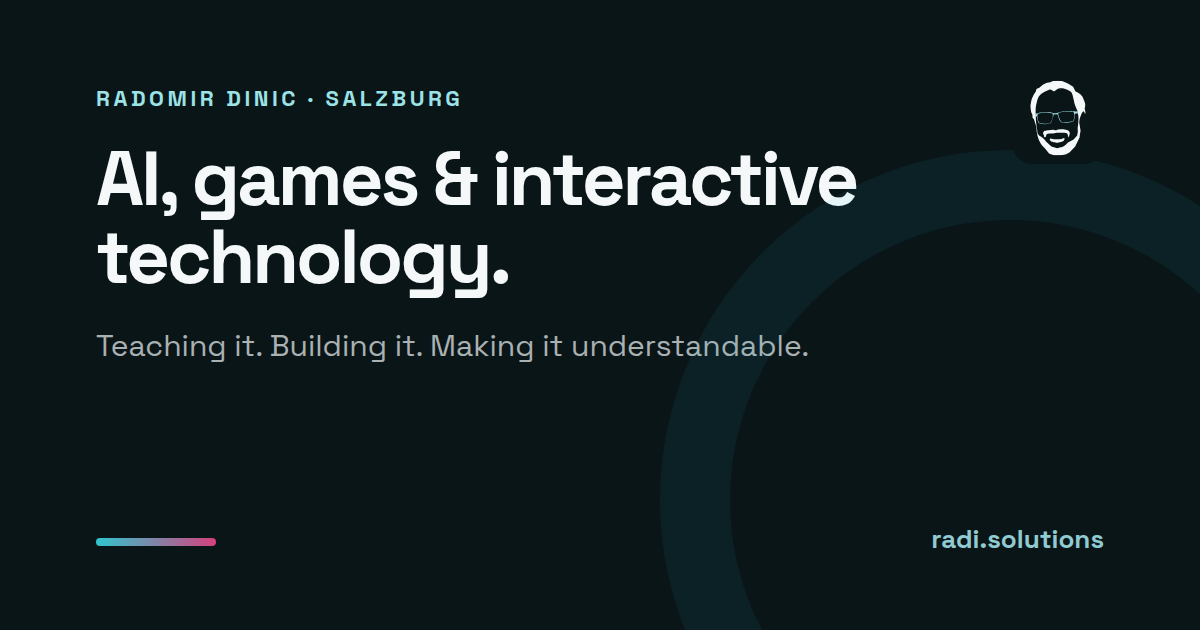
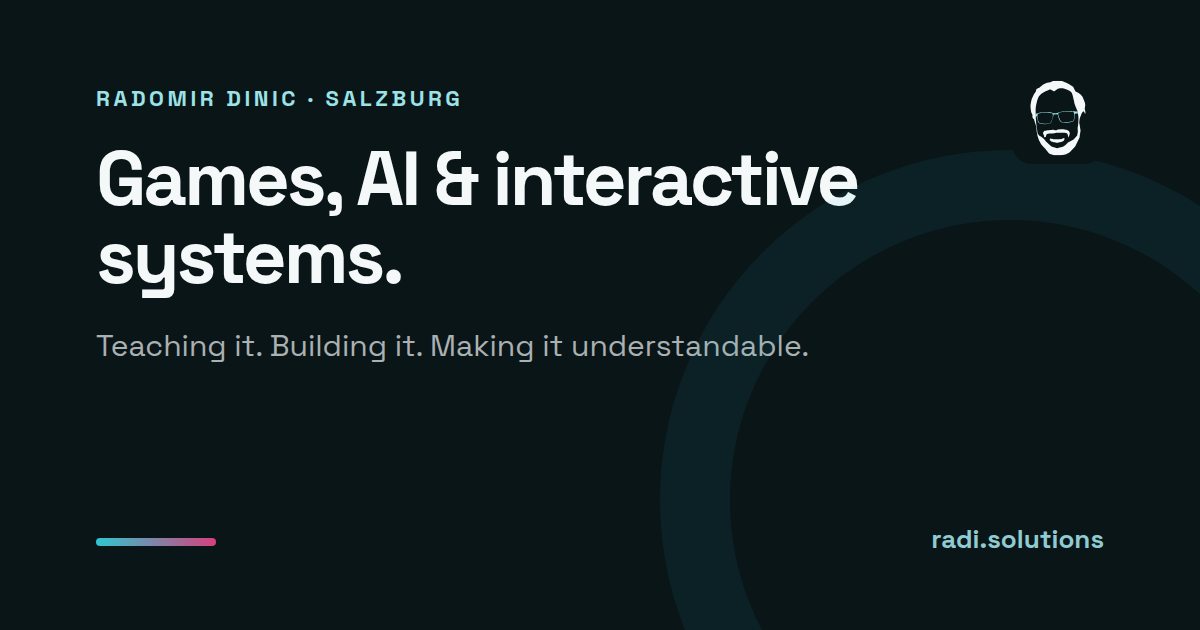
Add the digital-health thread and sharpen the hero claim
Second round of external feedback:
- About: one sentence on the digital-health focus of the early research
  (AR for diabetes and nutrition, VR health applications, behavioural
  research), which explains the LBI stop and the publication list
  without relabelling the MMT degree.
- Hero, title, OG image: "Games, AI & interactive systems." instead of
  "AI, games & interactive technology"; interactive systems covers MR,
  vision, prototyping and the research past.
- Teaching card, JSON-LD knowsAbout and llms.txt mention digital
  health, including the Ecomedicine VR project with PMU.

Claude-Session: https://claude.ai/code/session_0113qDYfqLyaocfvSmSUSRJT

Changed region(s): [[0.0617, 0.2413, 0.5858, 0.4825], [0.6167, 0.2413, 0.7092, 0.3317]]

diff --git a/src/components/TimeLine/TimeLine.js b/src/components/TimeLine/TimeLine.js
@@ -55,8 +55,12 @@ const Timeline = () => {
         understand what generative AI can actually do for them.
         <br /><br />
         My background runs from sales and consulting through computer vision and
-        mixed reality research to games, software development and AI education. That
-        mix shapes how I work: technically curious, hands-on, and usually more
+        mixed reality research to games, software development and AI education.
+        Much of my early research focused on digital health, combining computer
+        vision, mixed reality and interactive systems with applications in
+        medicine, nutrition and behavioural research.
+        <br /><br />
+        That mix shapes how I work: technically curious, hands-on, and usually more
         interested in building and testing something than in talking about it in
         the abstract. (Says the person who gives talks. I know.)
       </SectionText>

diff --git a/src/pages/index.js b/src/pages/index.js
@@ -13,7 +13,7 @@ import { SITE_URL, personJsonLd } from '../constants/site';
 import { Layout } from '../layout/Layout';
 import { Section } from '../styles/GlobalComponents';
 
-const TITLE = 'Radomir Dinic · AI, Games & Interactive Technology | Salzburg';
+const TITLE = 'Radomir Dinic · Games, AI & Interactive Systems | Salzburg';
 const DESCRIPTION = 'Senior Lecturer at FH Salzburg, developer and AI trainer. Teaching game development, computer vision and AI, building interactive prototypes and making generative AI understandable for teams and administrations.';
 
 const jsonLd = [
@@ -59,7 +59,7 @@ const Home = () => {
         description={DESCRIPTION}
         path="/"
         image="/og/home.png"
-        imageAlt="Radomir Dinic: AI, games & interactive technology"
+        imageAlt="Radomir Dinic: Games, AI & interactive systems"
         jsonLd={jsonLd}
       />
       <Section grid $noreveal>

diff --git a/src/constants/constants.js b/src/constants/constants.js
@@ -166,7 +166,7 @@ export const services = [
   {
     id: "teaching",
     title: "Teaching & Research",
-    text: "Senior Lecturer at FH Salzburg. I teach how games, vision systems and AI actually work, with a research background in mixed reality and HCI.",
+    text: "Senior Lecturer at FH Salzburg. I teach how games, vision systems and AI actually work, with a research background in mixed reality, HCI and digital health.",
     items: [
       "Game Development, Game Production Environments (Unity 6)",
       "Artificial Intelligence for Games",

diff --git a/src/components/Hero/Hero.js b/src/components/Hero/Hero.js
@@ -8,7 +8,7 @@ const Hero = () => (
     <LeftSection>
       <Eyebrow>Radomir Dinic · Salzburg</Eyebrow>
       <SectionTitle as="h1" main>
-        AI, games &amp; interactive technology.
+        Games, AI &amp; interactive systems.
       </SectionTitle>
       <Tagline>Teaching it. Building it. Making it understandable.</Tagline>
       <SectionText>

diff --git a/src/constants/site.js b/src/constants/site.js
@@ -36,6 +36,7 @@ export const PERSON = {
     'EU AI Act Article 4',
     'Rapid prototyping',
     'Human-computer interaction',
+    'Digital health',
   ],
   languages: ['de', 'en', 'sr'],
 };
